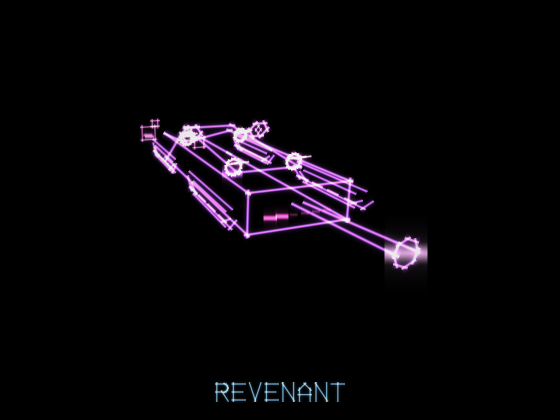
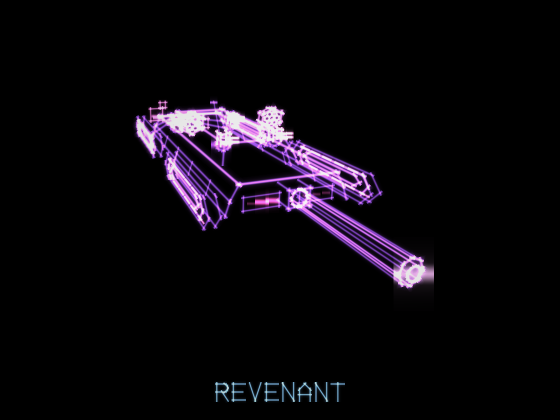
feat: the juggernaut earns its concept sheet
The fidelity pass, inside the rules: same renderer, same additive
strokes, no occlusion -- just three times the hand-placed edges,
spent where the sheet spends them. The hull is beveled now: deck
edge, mid crease, and skirt bottom running the full length with
panel seams between, a faceted wedge nose, a raised turret deck with
sloped faces. The tread pods are volumes with octagonal profiles and
the racetrack on the outer face, teeth rolling along both runs in
opposite phase. The gatlings are boxed housings with 2x2 barrel
clusters and muzzle dots. The missile pods are true hexagonal prisms,
mouths tilted at the sky, with the six tube cells the sheet is known
by. The cannon is a real octagonal prism -- eight long edges between
breech and muzzle rings, a mantlet at the hull. The tail carries the
twin outlined indicator panels, three lights each. There is even the
mast. Secondary creases draw dimmer than silhouettes, which is what
keeps three hundred lines under the mush ceiling wireframe imposes.

And it is bigger -- half again the machine, standing further off,
crushing a wider path. Portrait re-rendered from the same code; all
seven warden fights still pass.

Changed region(s): [[0.2429, 0.2167, 0.7893, 0.7119]]

diff --git a/src/boss.js b/src/boss.js
@@ -882,7 +882,7 @@ export const WARDENS = {
         b.swerveIn = 1.2 + hash2((game.time * 7) | 0, 1) * 1.6;
         b.xT = (hash2((game.time * 7) | 0, 2) * 2 - 1) * (hw - 76);
       }
-      b.t = lerp(b.t, game.t + 430, dt * 1.4);
+      b.t = lerp(b.t, game.t + 470, dt * 1.4);
       b.x = lerp(b.x, b.xT, dt * 1.6);
       b.y = 20;
       b.tShip = game.t;         // the draw paints fire on the ship's plane
@@ -892,9 +892,9 @@ export const WARDENS = {
       // The mounts, on the hull the concept drew: turrets at the quadrants,
       // pods high on the rear shoulders, tilted at the sky.
       const M = [
-        { dt: -70, dx: -30, dy: 48 }, { dt: -70, dx: 30, dy: 48 },
-        { dt: 55, dx: -34, dy: 50 }, { dt: 55, dx: 34, dy: 50 },
-        { dt: 20, dx: -40, dy: 62 }, { dt: 20, dx: 40, dy: 62 },
+        { dt: -85, dx: -30, dy: 52 }, { dt: -85, dx: 30, dy: 52 },
+        { dt: 65, dx: -42, dy: 40 }, { dt: 65, dx: 42, dy: 40 },
+        { dt: -30, dx: -52, dy: 58 }, { dt: -30, dx: 52, dy: 58 },
       ];
       b.parts.forEach((part, i) => {
         if (!part.alive) return;
@@ -919,7 +919,7 @@ export const WARDENS = {
       }
       b.debris = b.debris.filter((d) => {
         if (d.t < game.t - 120) return false;
-        if (Math.abs(b.t - d.t) < 130 && Math.abs(b.x - d.x) < 52) {
+        if (Math.abs(b.t - d.t) < 175 && Math.abs(b.x - d.x) < 66) {
           const w = [0, 0, 0];
           tr.localToWorld(d.t, d.x, 8, w);
           game.boomAt(w, d.car ? 34 : 20, d.car ? 190 : 140, 1, 0.6, 0.25, 0.8);
@@ -1090,91 +1090,191 @@ export const WARDENS = {
       const jx = (hash2((time * 60) | 0, 3) - 0.5) * c.charge * 7;
       const jy = (hash2((time * 60) | 0, 7) - 0.5) * c.charge * 4;
       const col = b.flash > 0 ? [1, 1, 1] : [0.75, 0.4, 1];
-      const X = b.x + jx, Y = b.y + jy;
-      const seg = (t0, x0, y0, t1, x1, y1, w = 2.2, cl = col, a = 1) => {
+      const dim = [col[0] * 0.55, col[1] * 0.55, col[2] * 0.62];
+      const X = b.x + jx, Y = jy;
+      const seg = (t0, x0, y0, t1, x1, y1, w = 2, cl = col, a = 1) => {
         tr.localToWorld(b.t + t0, X + x0, Y + y0, p);
         tr.localToWorld(b.t + t1, X + x1, Y + y1, q);
         rd.line3(p[0], p[1], p[2], q[0], q[1], q[2], w, cl[0], cl[1], cl[2], a);
       };
-
-      // The hull: a faceted slab with the wedge nose away from you -- it is
-      // driving backwards -- and the tail face square-on to the fight.
-      for (const sx of [-44, 44]) {
-        seg(-130, sx, -6, 110, sx, -6);
-        seg(-130, sx, 26, 110, sx, 26);
-        seg(-130, sx, -6, -130, sx, 26);
-        seg(110, sx, -6, 150, sx * 0.4, 10);
-        seg(110, sx, 26, 150, sx * 0.4, 10);
-      }
-      for (const dy of [-6, 26]) {
-        seg(-130, -44, dy, -130, 44, dy);
-      }
-      // The turret deck.
-      for (const sx of [-30, 30]) seg(-80, sx, 26, 70, sx, 40);
-      seg(-80, -30, 26, -80, 30, 26);
-      seg(70, -30, 40, 70, 30, 40);
-
-      // Four tread pods, racetracks rolling. The lines inside move.
-      for (const [pt, px] of [[-85, -58], [-85, 58], [70, -58], [70, 58]]) {
-        for (const [rl, rw] of [[46, 15], [34, 9]]) {
-          seg(pt - rl, px, 2 - (rw > 10 ? 0 : 3), pt + rl, px, 2 - (rw > 10 ? 0 : 3), 2, col, 0.9);
-          seg(pt - rl, px, 2 + rw, pt + rl, px, 2 + rw, 2, col, 0.9);
-          seg(pt - rl, px, 2, pt - rl - 8, px, 2 + rw * 0.5, 2, col, 0.9);
-          seg(pt + rl, px, 2, pt + rl + 8, px, 2 + rw * 0.5, 2, col, 0.9);
+      const ring = (t0, cx, cy, r, n, w = 2, cl = col, a = 1, squash = 1) => {
+        for (let k = 0; k < n; k++) {
+          const a0 = (k / n) * TAU, a1 = ((k + 1) / n) * TAU;
+          seg(t0, cx + Math.cos(a0) * r, cy + Math.sin(a0) * r * squash,
+            t0, cx + Math.cos(a1) * r, cy + Math.sin(a1) * r * squash, w, cl, a);
         }
-        for (let k = 0; k < 4; k++) {
-          const roll = ((b.t * 0.14 + k * 23) % 80) - 40;
-          seg(pt + roll, px, 3, pt + roll + 9, px, 3, 1.8, [1, 0.5, 0.9], 0.8);
+      };
+
+      // --- the hull: beveled slab, skirts, seams, wedge nose --------------
+      // Deck edge, mid crease, skirt bottom -- three long lines a side, the
+      // sheet's faceting read as creases rather than faces.
+      for (const sx of [-1, 1]) {
+        seg(-170, sx * 48, 34, 140, sx * 48, 34, 2.4);          // deck edge
+        seg(-170, sx * 56, 20, 140, sx * 56, 20, 2, dim);       // mid crease
+        seg(-170, sx * 60, 8, 140, sx * 60, 8, 2, dim);         // skirt bottom
+        // Bevels tying the three together at both ends.
+        seg(-170, sx * 48, 34, -170, sx * 56, 20, 2, dim);
+        seg(-170, sx * 56, 20, -170, sx * 60, 8, 2, dim);
+        seg(140, sx * 48, 34, 140, sx * 56, 20, 2, dim);
+        seg(140, sx * 56, 20, 140, sx * 60, 8, 2, dim);
+        // Panel seams down the skirt, four a side.
+        for (const st of [-120, -60, 0, 60]) {
+          seg(st, sx * 56, 20, st, sx * 60, 8, 1.3, dim, 0.8);
+        }
+        // The wedge nose, faceted in.
+        seg(140, sx * 48, 34, 200, sx * 18, 24, 2.2);
+        seg(140, sx * 56, 20, 200, sx * 20, 16, 2, dim);
+        seg(140, sx * 60, 8, 200, sx * 22, 10, 2, dim);
+      }
+      // Nose tip edges and deck/tail cross-lines.
+      seg(200, -18, 24, 200, 18, 24, 2.2);
+      seg(200, -20, 16, 200, 20, 16, 2, dim);
+      seg(200, -22, 10, 200, 22, 10, 2, dim);
+      seg(200, -18, 24, 200, -22, 10, 2, dim);
+      seg(200, 18, 24, 200, 22, 10, 2, dim);
+      seg(-170, -48, 34, -170, 48, 34, 2.4);
+      seg(140, -48, 34, 140, 48, 34, 2.2);
+
+      // --- the raised turret deck -----------------------------------------
+      for (const sx of [-1, 1]) {
+        seg(-100, sx * 34, 50, 85, sx * 34, 50, 2.2);
+        seg(-100, sx * 34, 50, -112, sx * 40, 34, 2, dim);      // sloped back
+        seg(85, sx * 34, 50, 100, sx * 40, 34, 2, dim);         // sloped front
+      }
+      seg(-100, -34, 50, -100, 34, 50, 2.2);
+      seg(85, -34, 50, 85, 34, 50, 2.2);
+
+      // --- four tread pods: housings, racetracks, rolling teeth -----------
+      for (const [pt, sxs] of [[-115, -1], [-115, 1], [95, -1], [95, 1]]) {
+        const px = sxs * 74;
+        const face = sxs * 7;    // the outer face of the pod
+        // The housing: an octagonal-profile box, both faces plus ties.
+        for (const off of [-face * 0.4, face]) {
+          seg(pt - 62, px + off, 4, pt + 62, px + off, 4, 1.8, dim, 0.9);
+          seg(pt - 62, px + off, 30, pt + 62, px + off, 30, 1.8, dim, 0.9);
+          seg(pt - 62, px + off, 4, pt - 74, px + off, 17, 1.8, dim, 0.9);
+          seg(pt - 74, px + off, 17, pt - 62, px + off, 30, 1.8, dim, 0.9);
+          seg(pt + 62, px + off, 4, pt + 74, px + off, 17, 1.8, dim, 0.9);
+          seg(pt + 74, px + off, 17, pt + 62, px + off, 30, 1.8, dim, 0.9);
+        }
+        // The racetrack on the outer face -- the sheet's signature.
+        for (const [rl, ry0, ry1] of [[52, 8, 26], [40, 12, 22]]) {
+          seg(pt - rl, px + face, ry0, pt + rl, px + face, ry0, 2, col, 0.95);
+          seg(pt - rl, px + face, ry1, pt + rl, px + face, ry1, 2, col, 0.95);
+          seg(pt - rl, px + face, ry0, pt - rl - 7, px + face, (ry0 + ry1) / 2, 2, col, 0.95);
+          seg(pt - rl - 7, px + face, (ry0 + ry1) / 2, pt - rl, px + face, ry1, 2, col, 0.95);
+          seg(pt + rl, px + face, ry0, pt + rl + 7, px + face, (ry0 + ry1) / 2, 2, col, 0.95);
+          seg(pt + rl + 7, px + face, (ry0 + ry1) / 2, pt + rl, px + face, ry1, 2, col, 0.95);
+        }
+        // The teeth, rolling: top run and bottom run, out of phase.
+        for (let k = 0; k < 5; k++) {
+          const roll = ((b.t * 0.14 + k * 21) % 100) - 50;
+          seg(pt + roll, px + face, 26, pt + roll + 8, px + face, 26, 1.7, [1, 0.5, 0.9], 0.85);
+          const roll2 = ((-b.t * 0.14 + k * 21) % 100) - 50;
+          seg(pt + roll2, px + face, 8, pt + roll2 + 8, px + face, 8, 1.7, [1, 0.5, 0.9], 0.85);
         }
       }
 
-      // The mounts: gatling clusters on octagon bases, hex pods tilted up.
+      // --- the mounts -----------------------------------------------------
       for (const part of b.parts) {
         if (!part.alive) continue;
         const pc = part.flash > 0 ? [1, 1, 1]
           : part.label === 'TURRET' ? [1, 0.6, 0.9] : [0.9, 0.5, 1];
+        const px = part.x - b.x - jx, py = part.y - jy;
+        const ptt = part.t - b.t;
         if (part.label === 'TURRET') {
-          octagon(rd, tr, part.t, part.x, part.y, 7, pc, 1.8);
-          for (const bx of [-3, 0, 3]) {
-            tr.localToWorld(part.t, part.x + bx, part.y + 3, p);
-            tr.localToWorld(part.t - 16, part.x + bx * 1.6, part.y + 8, q);
-            rd.line3(p[0], p[1], p[2], q[0], q[1], q[2], 1.6, pc[0], pc[1], pc[2], 0.95);
+          // Octagon base, boxed housing, and the 2x2 gatling cluster.
+          ring(ptt, px, py - 6, 8, 8, 1.8, dim, 0.9);
+          for (const sx of [-5, 5]) {
+            seg(ptt - 5, px + sx, py - 6, ptt - 5, px + sx, py + 5, 1.6, pc, 0.9);
+            seg(ptt + 5, px + sx, py - 6, ptt + 5, px + sx, py + 5, 1.6, pc, 0.9);
+            seg(ptt - 5, px + sx, py + 5, ptt + 5, px + sx, py + 5, 1.6, pc, 0.9);
+          }
+          seg(ptt - 5, px - 5, py + 5, ptt - 5, px + 5, py + 5, 1.6, pc, 0.9);
+          for (const bx of [-2.5, 2.5]) {
+            for (const by of [0, 4]) {
+              seg(ptt - 5, px + bx, py - 3 + by, ptt - 24, px + bx * 1.5, py + 1 + by, 1.5, pc, 0.95);
+              tr.localToWorld(b.t + ptt - 24, X + px + bx * 1.5, Y + py + 1 + by, p);
+              rd.line3(p[0], p[1], p[2], p[0], p[1], p[2], 2.4, pc[0], pc[1], pc[2], 0.9);
+            }
           }
         } else {
-          // The hex pod, mouth tilted up and back the way the sheet has it.
+          // The hex pod: a true hexagonal prism, mouth tilted up and back,
+          // with the six tube cells the sheet is known by.
+          const hex = (tOff, r, w, a) => {
+            for (let k = 0; k < 6; k++) {
+              const a0 = (k / 6) * TAU + TAU / 12, a1 = ((k + 1) / 6) * TAU + TAU / 12;
+              seg(ptt + tOff - Math.sin(a0) * 3, px + Math.cos(a0) * r, py + Math.sin(a0) * r * 0.9,
+                ptt + tOff - Math.sin(a1) * 3, px + Math.cos(a1) * r, py + Math.sin(a1) * r * 0.9, w, pc, a);
+            }
+          };
+          hex(-6, 14, 2.2, 1);         // the mouth
+          hex(8, 12, 1.7, 0.75);       // the back
           for (let k = 0; k < 6; k++) {
-            const a0 = (k / 6) * TAU, a1 = ((k + 1) / 6) * TAU;
-            tr.localToWorld(part.t - Math.sin(a0) * 4, part.x + Math.cos(a0) * 11,
-              part.y + Math.sin(a0) * 9, p);
-            tr.localToWorld(part.t - Math.sin(a1) * 4, part.x + Math.cos(a1) * 11,
-              part.y + Math.sin(a1) * 9, q);
-            rd.line3(p[0], p[1], p[2], q[0], q[1], q[2], 2, pc[0], pc[1], pc[2], 1);
+            const a0 = (k / 6) * TAU + TAU / 12;
+            seg(ptt - 6 - Math.sin(a0) * 3, px + Math.cos(a0) * 14, py + Math.sin(a0) * 12.6,
+              ptt + 8 - Math.sin(a0) * 3, px + Math.cos(a0) * 12, py + Math.sin(a0) * 10.8, 1.5, pc, 0.7);
           }
-          diamond(rd, tr, part.t, part.x, part.y, 4, pc, 1.2, 0.8);
+          for (let k = 0; k < 6; k++) {
+            const a0 = (k / 6) * TAU;
+            const cx2 = px + Math.cos(a0) * 6.5, cy2 = py + Math.sin(a0) * 5.8;
+            for (let j = 0; j < 6; j++) {
+              const b0 = (j / 6) * TAU, b1 = ((j + 1) / 6) * TAU;
+              seg(ptt - 6, cx2 + Math.cos(b0) * 3, cy2 + Math.sin(b0) * 2.7,
+                ptt - 6, cx2 + Math.cos(b1) * 3, cy2 + Math.sin(b1) * 2.7, 1.2, pc, 0.85);
+            }
+          }
         }
       }
 
-      // The cannon: the huge octagonal barrel, tracking you.
-      seg(-130, -5, 12, -226, -7, 20, 2.6);
-      seg(-130, 5, 12, -226, 7, 20, 2.6);
-      octagon(rd, tr, b.t - 226, X, Y + 20, 8, c.charge > 0.6 ? [1, 0.8, 1] : col, 2.2);
+      // --- the cannon: a true octagonal prism, tracking you ---------------
+      // The mantlet it emerges from.
+      for (const sx of [-10, 10]) {
+        seg(-170, sx, 14, -186, sx, 14, 2, dim);
+        seg(-170, sx, 30, -186, sx, 30, 2, dim);
+        seg(-186, sx, 14, -186, sx, 30, 2, dim);
+      }
+      seg(-186, -10, 14, -186, 10, 14, 2, dim);
+      seg(-186, -10, 30, -186, 10, 30, 2, dim);
+      // Eight long edges between the breech ring and the muzzle ring.
+      ring(-186, 0, 22, 7.5, 8, 2);
+      ring(-300, 0, 24, 8.5, 8, 2.2);
+      for (let k = 0; k < 8; k++) {
+        const a0 = (k / 8) * TAU;
+        seg(-186, Math.cos(a0) * 7.5, 22 + Math.sin(a0) * 7.5,
+          -300, Math.cos(a0) * 8.5, 24 + Math.sin(a0) * 8.5, 1.7, k % 2 ? dim : col, 0.9);
+      }
+      ring(-302, 0, 24, 4.5, 8, 2, c.charge > 0.6 ? [1, 0.8, 1] : col);
       if (c.charge > 0) {
-        tr.localToWorld(b.t - 226, X, Y + 20, p);
-        rd.line3(p[0], p[1], p[2], p[0], p[1], p[2], 5 + c.charge * 24,
+        tr.localToWorld(b.t - 302, X, Y + 24, p);
+        rd.line3(p[0], p[1], p[2], p[0], p[1], p[2], 5 + c.charge * 22,
           1, 0.6 + c.charge * 0.4, 1, 0.4 + c.charge * 0.6);
       }
 
-      // The six counting lights on the tail: the "..." the sheet promised.
+      // --- the tail face: twin indicator panels, six lights counting ------
       const lit = Math.round(c.charge * 6);
+      for (const side of [-1, 1]) {
+        seg(-170.5, side * 44, 10, -170.5, side * 10, 10, 1.5, dim, 0.9);
+        seg(-170.5, side * 44, 22, -170.5, side * 10, 22, 1.5, dim, 0.9);
+        seg(-170.5, side * 44, 10, -170.5, side * 44, 22, 1.5, dim, 0.9);
+        seg(-170.5, side * 10, 10, -170.5, side * 10, 22, 1.5, dim, 0.9);
+      }
       for (let i = 0; i < 6; i++) {
+        const side = i < 3 ? -1 : 1;
+        const slot = i % 3;
         const on = i < lit || c.state === 'locked' || c.state === 'firing';
         const blink = c.state === 'locked' && Math.sin(time * 26) > 0;
-        tr.localToWorld(b.t - 129, X - 25 + i * 10, Y + 4, p);
-        rd.line3(p[0], p[1], p[2], p[0], p[1], p[2], on ? 4.4 : 2.6,
+        tr.localToWorld(b.t - 171, X + side * (17 + slot * 10), Y + 16, p);
+        rd.line3(p[0], p[1], p[2], p[0], p[1], p[2], on ? 4.6 : 2.6,
           1, blink ? 1 : 0.35, blink ? 1 : 0.8, on ? 1 : 0.25);
       }
 
-      // The turret fire, painted: streams from the muzzles to the points.
+      // --- the mast the sheet sketched in ---------------------------------
+      seg(-60, -24, 50, -52, -28, 84, 1.2, dim, 0.8);
+      tr.localToWorld(b.t - 52, X - 28, Y + 84, p);
+      rd.line3(p[0], p[1], p[2], p[0], p[1], p[2], 2.4, col[0], col[1], col[2], 0.8);
+
+      // --- the fire being painted, the volley, the blasts, the road -------
       if (b.burst) {
         const turrets = b.parts.filter((x) => x.alive && x.label === 'TURRET');
         b.burst.pts.forEach((pt, i) => {
@@ -1186,8 +1286,6 @@ export const WARDENS = {
           rd.line3(q[0], q[1], q[2], q[0], q[1], q[2], 6, 1, 0.7, 1, 0.9);
         });
       }
-
-      // The volley in the air: slow pulsing rings, each one a target.
       for (const m of b.missilesLive) {
         const r = 5 + Math.sin(time * 8 + m.world[2] * 0.01) * 2;
         for (let k = 0; k < 6; k++) {
@@ -1197,8 +1295,6 @@ export const WARDENS = {
             1.8, m.flash > 0 ? 1 : 1, m.flash > 0 ? 1 : 0.45, m.flash > 0 ? 1 : 0.75, 0.95);
         }
       }
-
-      // The blasts: the field lit to the walls, with the eye left dark.
       if (c.state === 'firing' && c.flashAt && time - c.flashAt < 0.22) {
         const a = 1 - (time - c.flashAt) / 0.22;
         const tS = b.tShip ?? b.t - 430;
@@ -1211,7 +1307,6 @@ export const WARDENS = {
           rd.line3(p[0], p[1], p[2], q[0], q[1], q[2], 3.4, 1, 0.55, 1, a);
         }
       }
-      // The wreckage and the cars, waiting for the treads.
       for (const d of b.debris) {
         square(rd, tr, d.t, d.x, 8, d.size, [0.85, 0.45, 0.8], 1.3, 0.7);
         if (d.car) {
